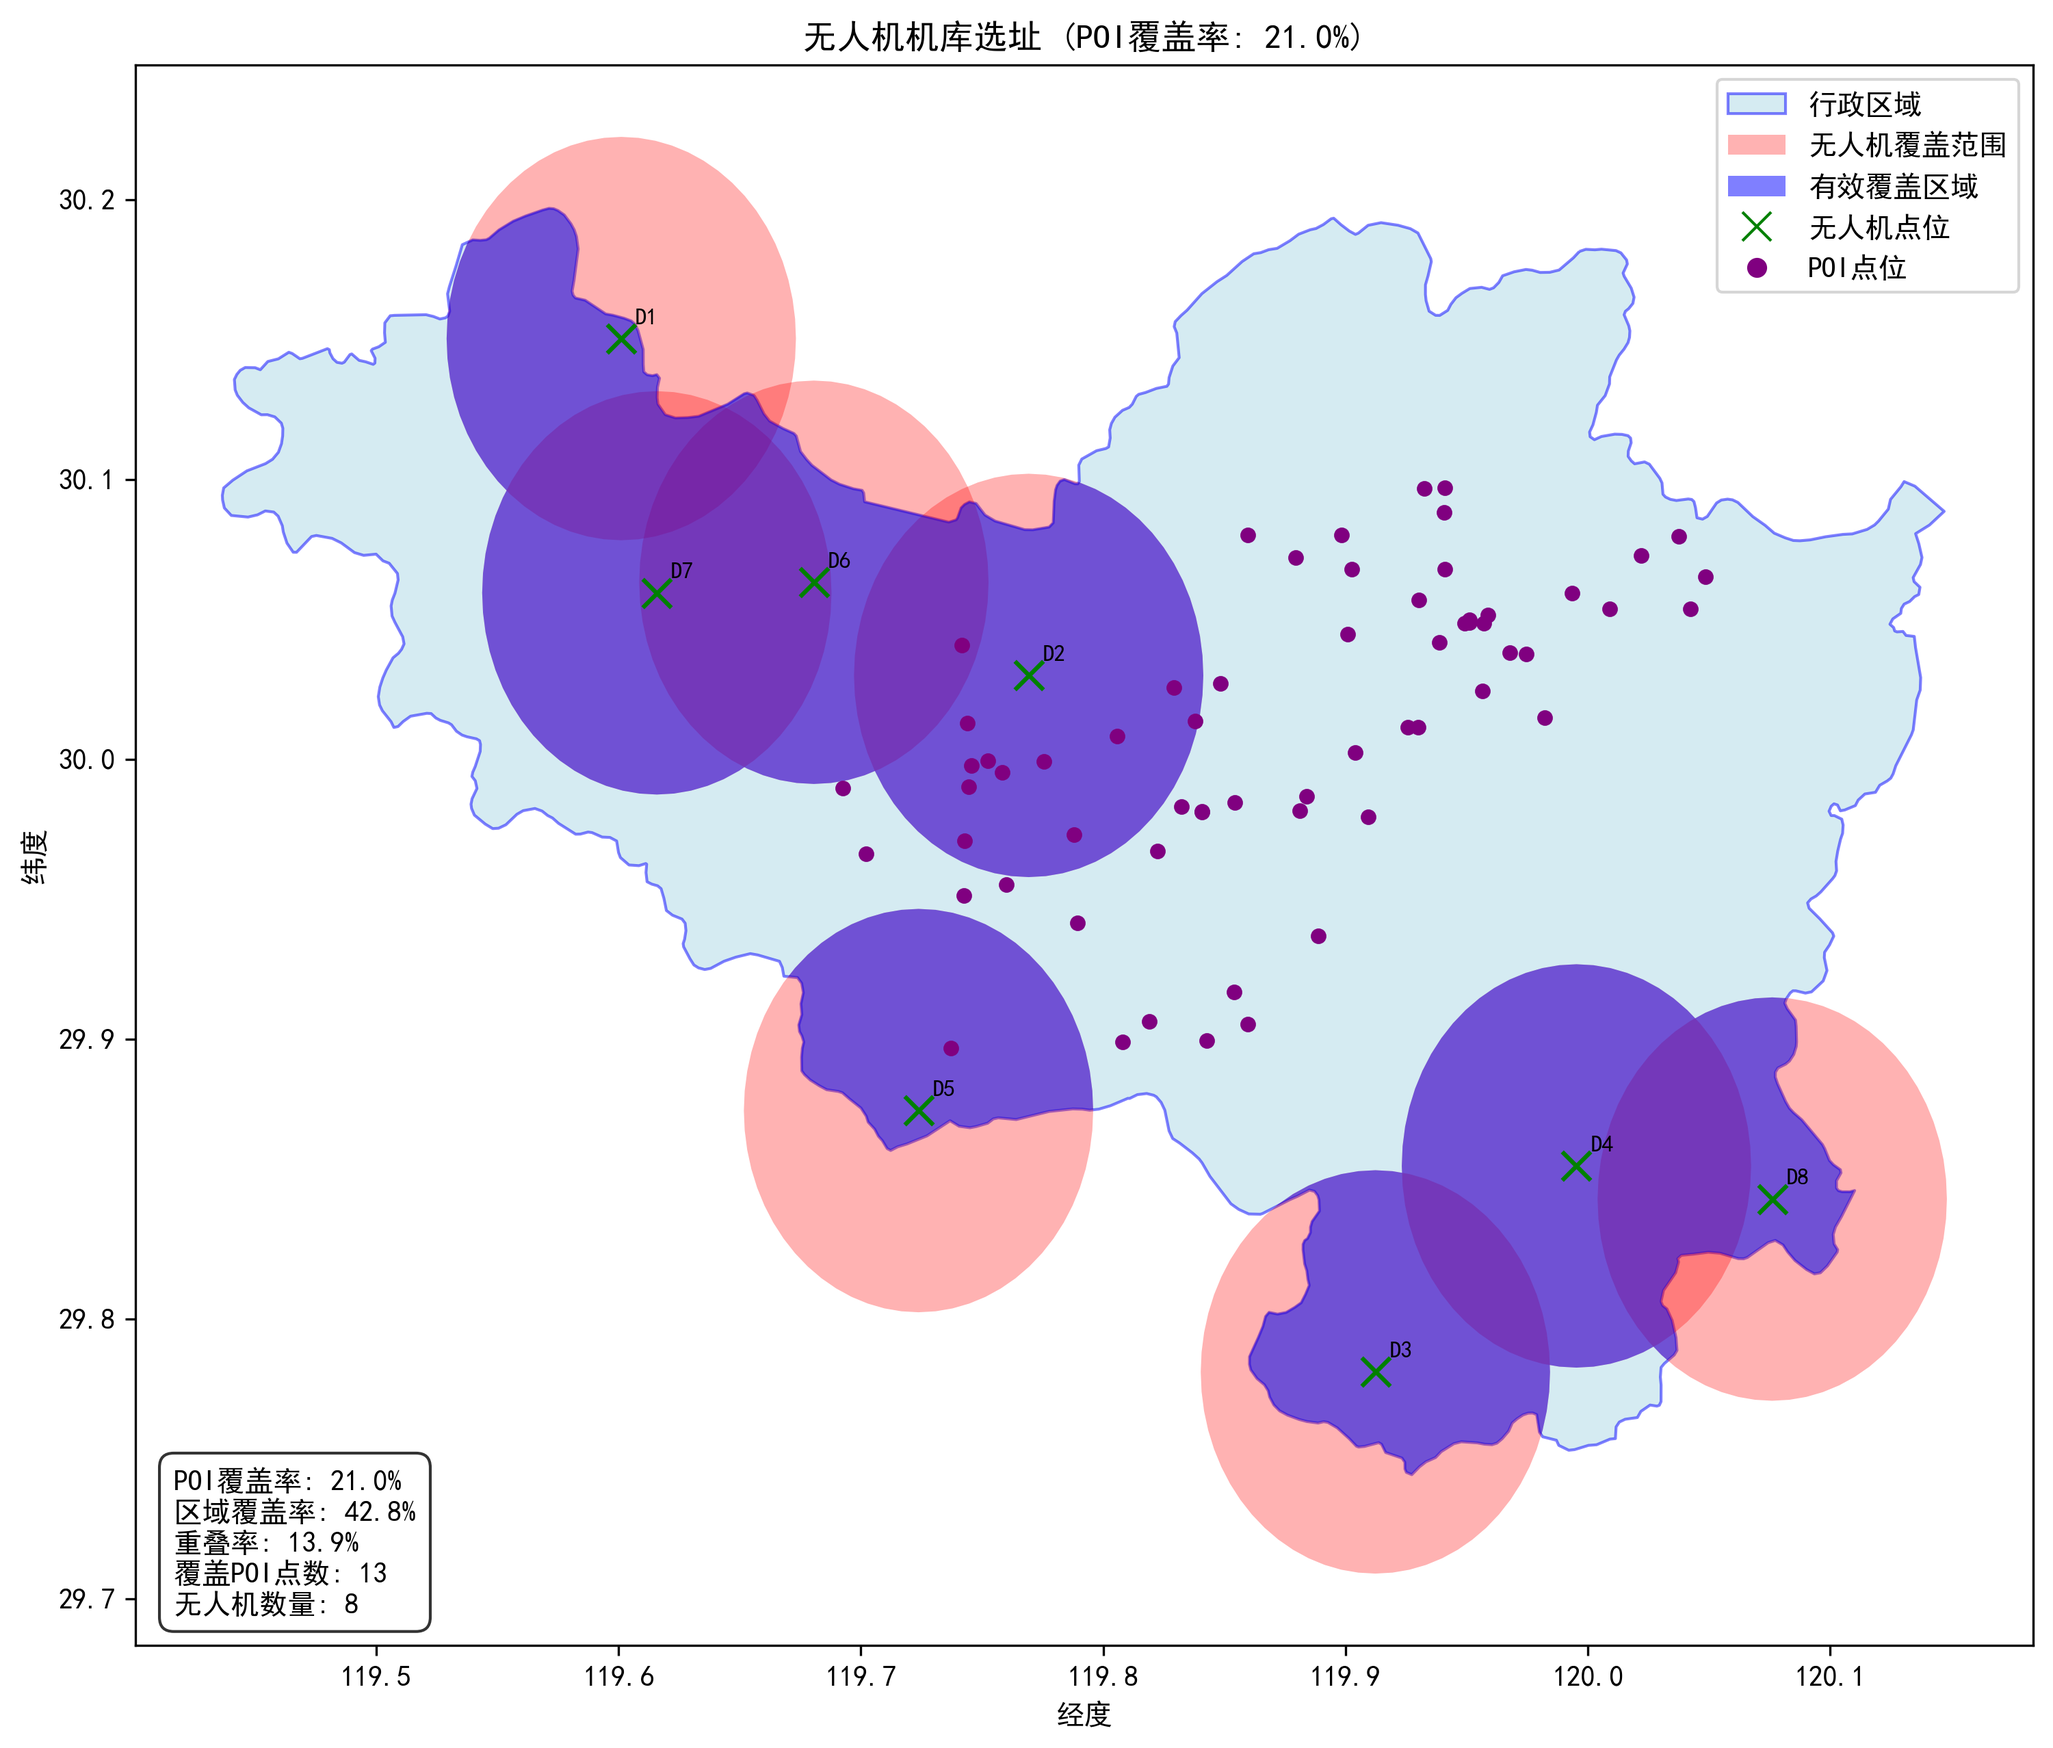
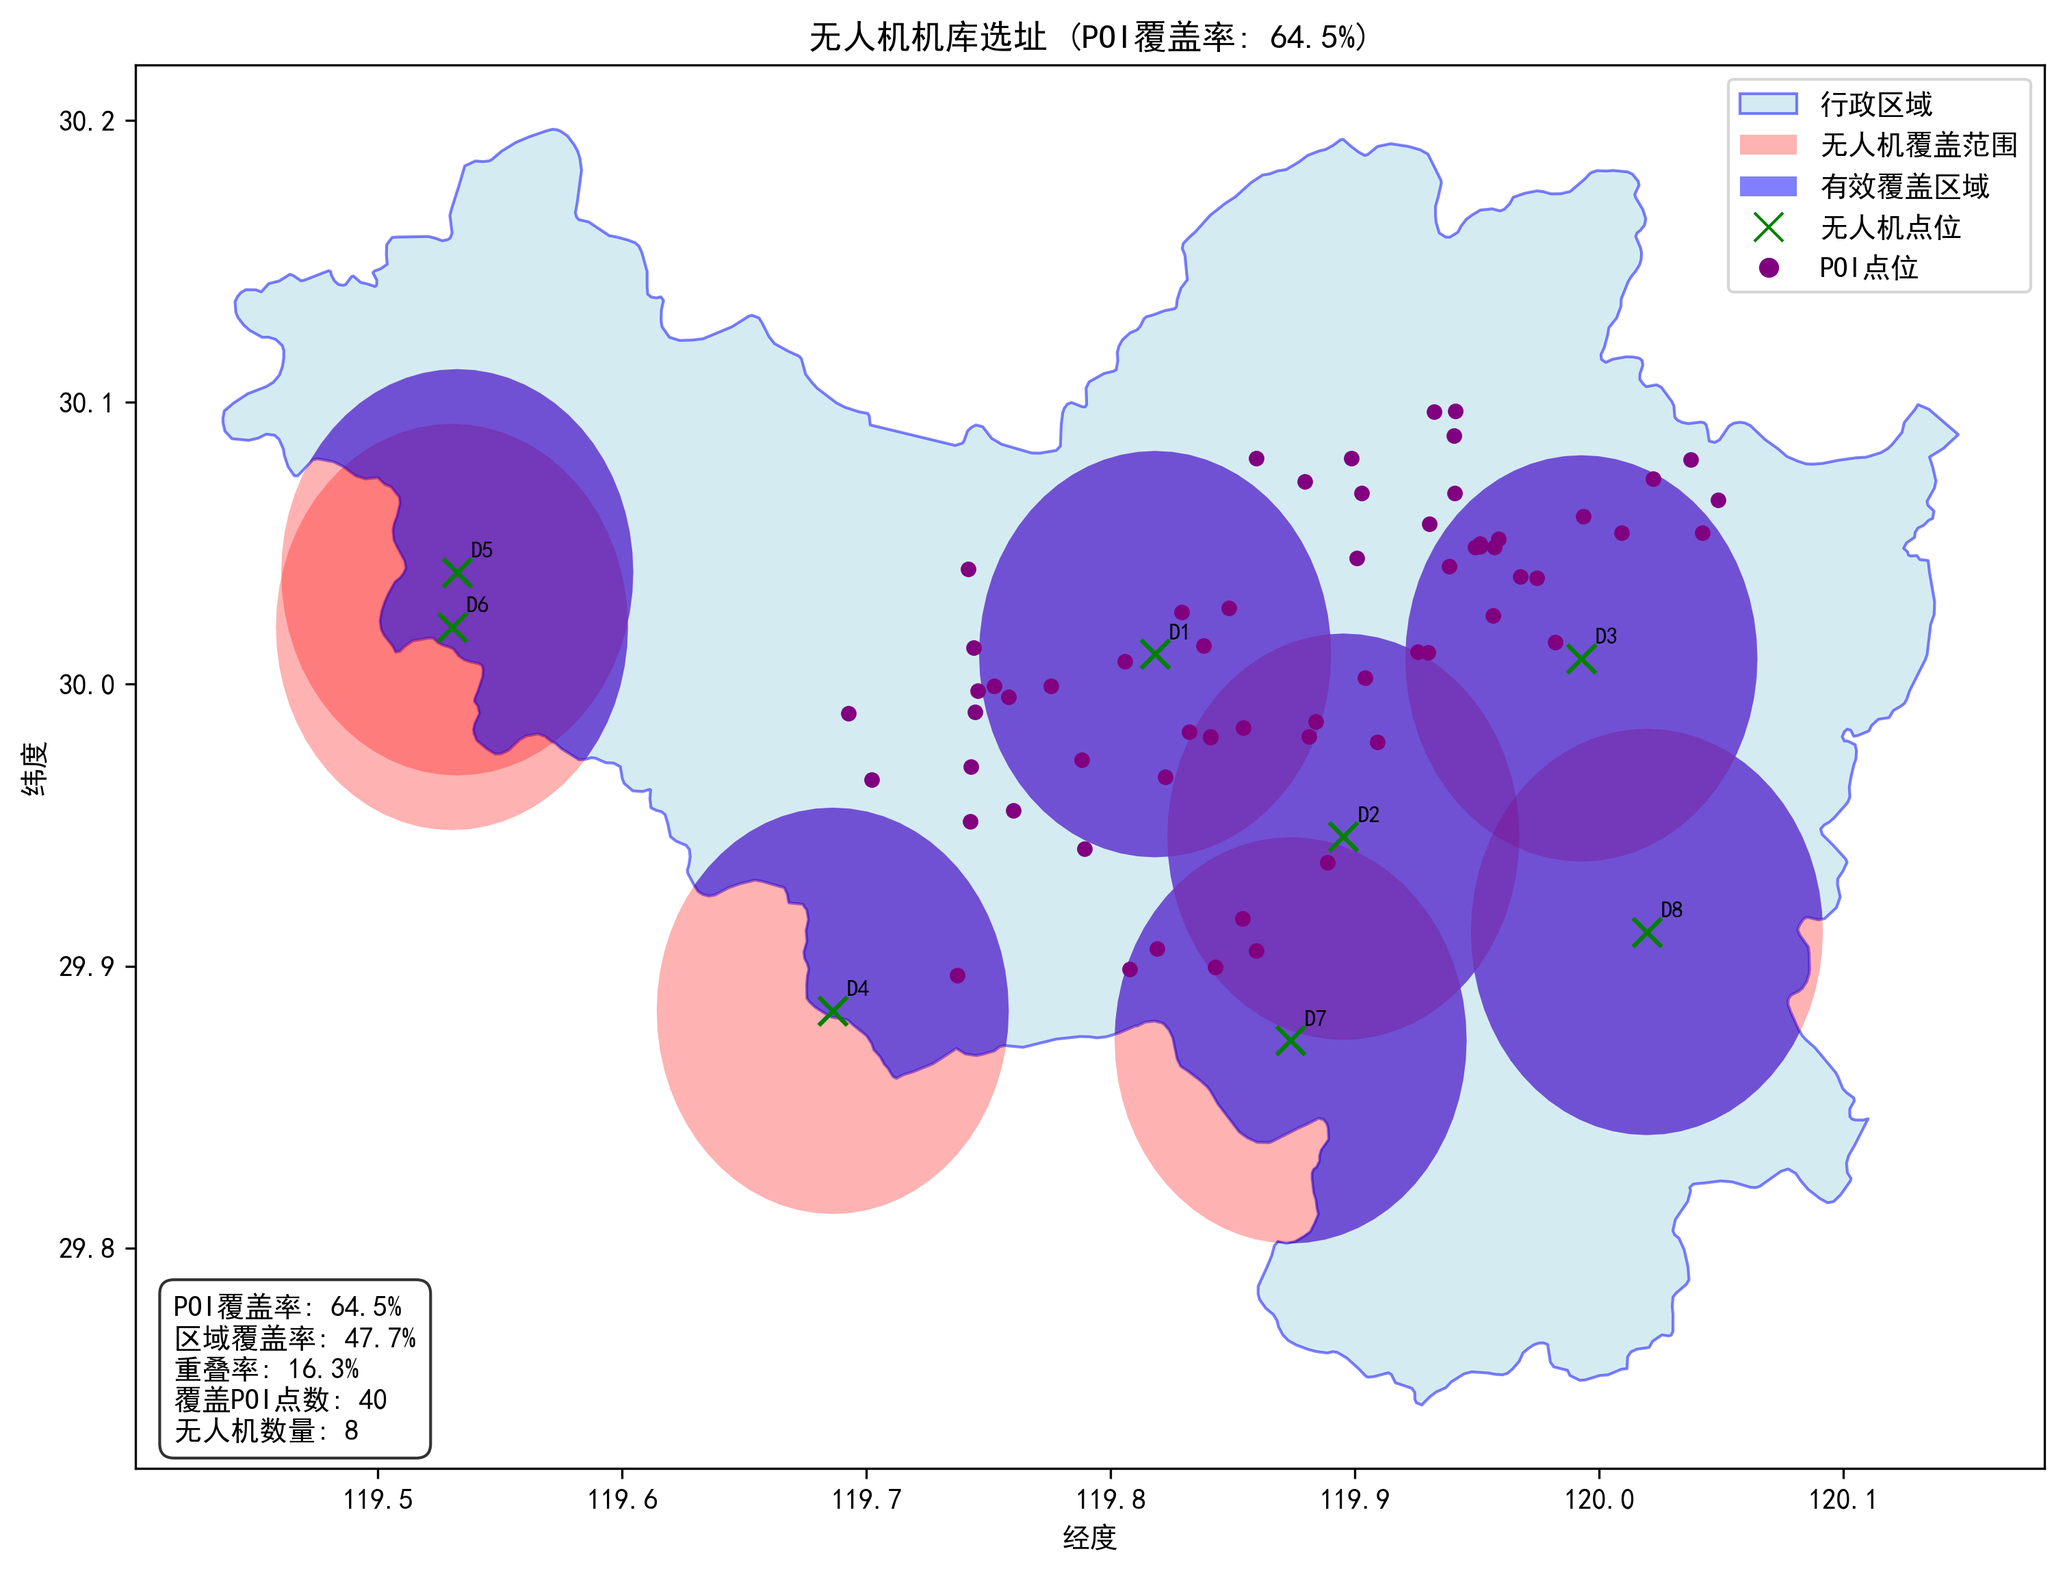
自由布局版1.0

diff --git a/env/drone_env.py b/env/drone_env.py
@@ -332,9 +332,10 @@ class DroneEnvironment(gym.Env):
             normalized_overlap = (overlap_area / region_area) if region_area > 0 else 0
             
             # 防止奖励值过大或过小
-            poi_term = poi_coverage_ratio * 0.7
+            #这里可以自定义惩罚系数
+            poi_term = poi_coverage_ratio * 1
             area_term = coverage_ratio * 0.3
-            overlap_term = normalized_overlap * 0.5
+            overlap_term = normalized_overlap * 0.1
             
             # 确保各项值在合理范围内
             if np.isnan(poi_term) or np.isinf(poi_term):
